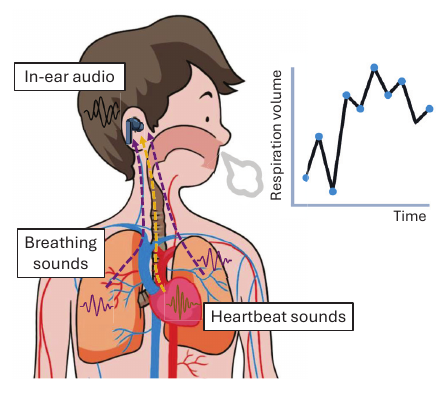
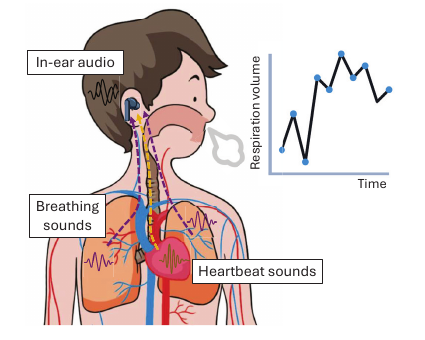
Fix research figure scaling

diff --git a/app/globals.css b/app/globals.css
@@ -148,8 +148,13 @@ nav a:hover::after { transform: scaleX(1); }
 .research-main > p a:hover { color: var(--ink); }
 .paper-mosaic { margin-top: 32px; display: grid; grid-template-columns: repeat(4, minmax(0, 1fr)); gap: 10px; }
 .paper-tile { min-width: 0; aspect-ratio: 4 / 3; position: relative; display: grid; place-items: center; overflow: hidden; border: 1px solid var(--line); background: #fff; }
-.paper-tile > img { display: block; width: 100%; height: 100%; padding: 12px; object-fit: contain; transition: filter .35s ease, transform .35s ease; }
+.paper-tile > img { position: absolute; inset: 0; display: block; width: 100%; height: 100%; min-width: 0; min-height: 0; padding: 14px; object-fit: contain; transition: filter .35s ease, transform .35s ease; }
+.paper-tile-overlay { position: absolute; z-index: 1; inset: 0; padding: 15px; display: flex; flex-direction: column; justify-content: flex-end; gap: 7px; color: #fff; background: linear-gradient(180deg, transparent 15%, rgba(7,14,21,.9) 100%); opacity: 0; transition: opacity .25s ease; }
+.paper-tile-overlay small { font: 600 8px var(--font-geist-mono); letter-spacing: .07em; text-transform: uppercase; }
+.paper-tile-overlay strong { max-width: 30ch; font-size: 14px; line-height: 1.28; font-weight: 650; }
+.paper-tile-overlay i { font: 600 8px var(--font-geist-mono); letter-spacing: .05em; text-transform: uppercase; font-style: normal; }
 .paper-tile:hover > img, .paper-tile:focus-visible > img { filter: saturate(.72); transform: scale(.97); }
+.paper-tile:hover .paper-tile-overlay, .paper-tile:focus-visible .paper-tile-overlay { opacity: 1; }
 .paper-tile:focus-visible { outline: 2px solid var(--blue); outline-offset: 2px; }
 .research-media { display: grid; grid-template-columns: 1.4fr 1fr; grid-auto-rows: 210px; gap: 8px; margin-top: 30px; background: #f2f5f7; }
 .research-media img, .research-media video { width: 100%; height: 100%; }
@@ -319,6 +324,9 @@ nav a:hover::after { transform: scaleX(1); }
 }
 
 @media (hover: none) {
+  .paper-tile-overlay { padding: 11px; background: linear-gradient(180deg, transparent 45%, rgba(7,14,21,.92) 100%); opacity: 1; }
+  .paper-tile-overlay small, .paper-tile-overlay i { display: none; }
+  .paper-tile-overlay strong { font-size: 11px; }
 }
 
 @media (prefers-reduced-motion: reduce) {

diff --git a/app/research/page.tsx b/app/research/page.tsx
@@ -22,6 +22,7 @@ function PaperGallery({ papers }: { papers: ResearchPaper[] }) {
   return <div className="paper-mosaic" aria-label="Related publications">
     {papers.map((paper, index) => <a className="paper-tile" href={paper.href} target="_blank" rel="noreferrer" key={`${paper.venue}-${index}`} aria-label={`${paper.title} — ${paper.venue}`} title={paper.title}>
       <img src={`${basePath}${paper.image}`} alt="" />
+      <span className="paper-tile-overlay"><small>{paper.venue}</small><strong>{paper.title}</strong><i>Open paper ↗</i></span>
     </a>)}
   </div>;
 }